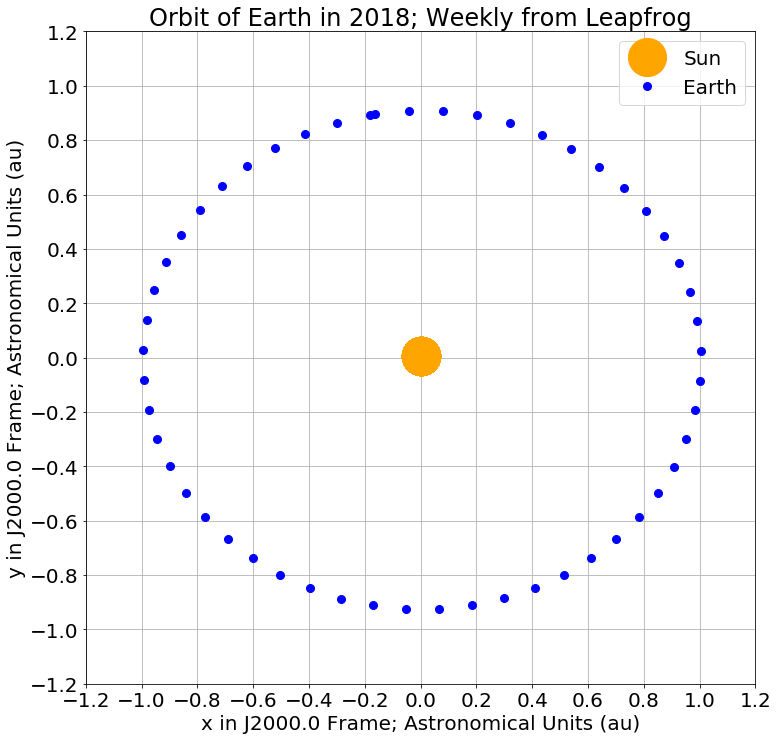
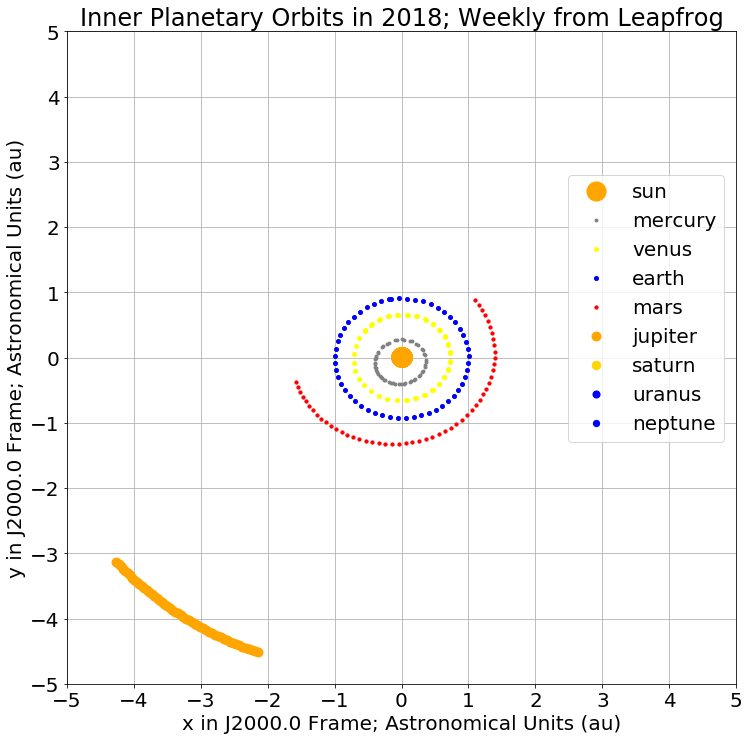
completed eight planets simulation

diff --git a/solar_system/eight_planets.py b/solar_system/eight_planets.py
@@ -35,10 +35,10 @@ mpl.rcParams.update({'font.size': 20})
 
 
 # *************************************************************************************************
-def configuration(bodies: List[str], t0: date, t1: Optional[date] = None,  
+def configuration(t0: date, t1: Optional[date] = None,  
                   steps_per_day: int = None) -> Tuple[np.ndarray, np.ndarray]:
     """
-    Get the positions and velocities of the sun and nine planets
+    Get the positions and velocities of the sun and eight planets
     Returned as a tuple q, v
     q: Nx3 array of positions (x, y, z) in the J2000.0 coordinate frame.
     """
@@ -63,6 +63,8 @@ def configuration(bodies: List[str], t0: date, t1: Optional[date] = None,
 
     # Number of time steps
     N: int = len(jd)
+    
+    # bodies is a list of the celestial bodies considered; should be in an enclosing scope
     # Number of bodies
     B: int = len(bodies)
     # Number of dimensions
@@ -94,7 +96,7 @@ def configuration(bodies: List[str], t0: date, t1: Optional[date] = None,
 def plot(q: np.ndarray, bodies: List[str], plot_colors: Dict[str, str],
          sim_name: str, fname: Optional[str] = None):
     """
-    Plot the planetary orbits.
+    Plot the planetary orbits.  Plot size limited to box of 10 AU around the sun.
     q is a Nx3B array.  t indexes time points.  3B columns are (x, y, z) for the bodies in order.
     """
     # Get N and number of dims
@@ -109,7 +111,7 @@ def plot(q: np.ndarray, bodies: List[str], plot_colors: Dict[str, str],
     
     # Set up chart title and scale
     fig, ax = plt.subplots(figsize=[12,12])
-    ax.set_title(f'Orbit of Earth in 2018; Weekly from {sim_name}')
+    ax.set_title(f'Inner Planetary Orbits in 2018; Weekly from {sim_name}')
     ax.set_xlabel('x in J2000.0 Frame; Astronomical Units (au)')
     ax.set_ylabel('y in J2000.0 Frame; Astronomical Units (au)')
     # Scale and tick size
@@ -151,6 +153,9 @@ def accel(q: np.ndarray):
     Compute the gravitational accelerations in the system
     q in row vector of 6 elements: sun (x, y, z), earth (x, y, z)
     """
+
+    # Infer number of dimensions from q
+    dims: int = len(q)
 
     # Initialize acceleration as dimsx1 array
     a: np.ndarray = np.zeros(dims)
@@ -202,29 +207,94 @@ def energy(q, v):
     for i in range(B):
         # Kinetic energy is 1/2 mv^2
         m = mass[i]
-        v = v[:, slices[i]]
-        T += 0.5 * m * np.sum(v * v, axis=1)
+        vi = v[:, slices[i]]
+        T += 0.5 * m * np.sum(vi * vi, axis=1)
     
     # Add up potential energy of each pair of bodies
     for i in range(B):
         for j in range(i+1, B):
             # Masses of these two bodies
-            m0 = mass[i]
-            m1 = mass[1]
+            mi = mass[i]
+            mj = mass[j]
         
             # Positions of body i and j
-            q0: np.ndarray = q[:, slices[0]]
-            q1: np.ndarray = q[:, slices[1]]
+            qi: np.ndarray = q[:, slices[i]]
+            qj: np.ndarray = q[:, slices[j]]
         
             # Potential energy is -G m1 m2  / r
-            dv_01 = q1 - q0
-            r_01 = np.linalg.norm(dv_01, axis=1)
-            U -= G * m0 * m1 * 1.0 / r_01
+            dv_ij = qj - qi
+            r_ij = np.linalg.norm(dv_ij, axis=1)
+            U -= G * mi * mj * 1.0 / r_ij
     
     # Total energy H = T + U
     H = T + U
     
     return H, T, U
+
+
+# *************************************************************************************************
+# q variables for the eight planets system
+x0, y0, z0 = fl.Vars('x0', 'y0', 'z0')
+x1, y1, z1 = fl.Vars('x1', 'y1', 'z1')
+x2, y2, z2 = fl.Vars('x2', 'y2', 'z2')
+x3, y3, z3 = fl.Vars('x3', 'y3', 'z3')
+x4, y4, z4 = fl.Vars('x4', 'y4', 'z4')
+x5, y5, z5 = fl.Vars('x5', 'y5', 'z5')
+x6, y6, z6 = fl.Vars('x6', 'y6', 'z6')
+x7, y7, z7 = fl.Vars('x7', 'y7', 'z7')
+x8, y8, z8 = fl.Vars('x8', 'y8', 'z8')
+
+# Arrange qs into a list
+q_vars = [x0, y0, z0,
+          x1, y1, z1,
+          x2, y2, z2,
+          x3, y3, z3,
+          x4, y4, z4,
+          x5, y5, z5,
+          x6, y6, z6,
+          x7, y7, z7,
+          x8, y8, z8]
+
+
+def make_force(q_vars, mass):
+    """Fluxion with the potential energy of the eight planets sytem"""
+    # Number of bodies
+    B: int = len(mass)
+    
+    # Build the potential energy fluxion by iterating over distinct pairs of bodies
+    U = fl.Const(0.0)
+    for i in range(B):
+        for j in range(i+1, B):
+            U +=  U_ij(q_vars, mass, i, j)
+    
+    # Varname arrays for both the coordinate system and U
+    vn_q = np.array([q.var_name for q in q_vars])
+    vn_fl = np.array(sorted(U.var_names))
+    # Permutation array for putting variables in q in the order expected by U (alphabetical)
+    q2fl = np.array([np.argmax((vn_q == v)) for v in vn_fl])
+    # Permutation array for putting results of U.diff() in order of q_vars
+    fl2q = np.array([np.argmax((vn_fl == v)) for v in vn_q])
+    # Return a force function from this potential
+    force_func = lambda q: -U.diff(q[q2fl]).squeeze()[fl2q]
+    return force_func
+
+
+def accel_fl(q: np.ndarray):
+    """Accelaration in the earth-sun system using Fluxion potential energy"""
+    # Infer number of dimensions from q
+    dims: int = len(q)
+    # Number of celestial bodies
+    B: int = dims // 3
+
+    # The force given the positions q of the bodies
+    f = force(q)
+
+    # The accelerations from this force
+    a = np.zeros(dims)
+    for i in range(B):
+        a[slices[i]] = f[slices[i]] / mass[i]
+    
+    return a
 
 
 # *************************************************************************************************
@@ -264,7 +334,7 @@ plot_colors = {
         }
 
 # Build a force function
-# force_ES = make_force_ES(q_vars, mass)
+force = make_force(q_vars, mass)
 
 # Set simulation time step to one day
 steps_per_day: int = 16
@@ -272,33 +342,33 @@ steps_per_day: int = 16
 # Extract position and velocity of earth-sun system in 2018
 t0 = date(2018,1,1)
 t1 = date(2019,1,1)
-q_jpl, v_jpl = configuration(bodies, t0, t1, steps_per_day)
+q_jpl, v_jpl = configuration(t0, t1, steps_per_day)
 
 # Simulate solar earth-sun system 
-# q_sim, v_sim = simulate_leapfrog(configuration_ES, accel_ES_fl, t0, t1, steps_per_day)
+q_sim, v_sim = simulate_leapfrog(configuration, accel_fl, t0, t1, steps_per_day)
 
 # Compute energy time series for earth-sun system with JPL and leapfrog simulations
 H_jpl, T_jpl, U_jpl = energy(q_jpl, v_jpl)
-# H_sim, T_sim, U_sim = energy_ES(q_sim, v_sim)
+H_sim, T_sim, U_sim = energy(q_sim, v_sim)
 
 # Plot the earth-sun orbits in 2018 at weekly intervals using the simulation
 plot_step: int = 7 * steps_per_day
 plot(q_jpl[::plot_step], bodies, plot_colors, 'JPL', 'figs/eight_planets_jpl.png')
-# plot_ES(q_sim[::plot_step], 'Leapfrog', 'figs/earth_sun_leapfrog.png')
+plot(q_sim[::plot_step], bodies, plot_colors, 'Leapfrog', 'figs/earth_sun_leapfrog.png')
 
 # Compute the MSE in AUs between the two simulations
-# mse = calc_mse(q_jpl, q_sim)
-# print(f'MSE between lapfrog simulation with {steps_per_day} steps per day and JPL:')
-# print(f'{mse:0.3e} astronomical units.')
+mse = calc_mse(q_jpl, q_sim)
+print(f'MSE between leapfrog simulation with {steps_per_day} steps per day and JPL:')
+print(f'{mse:0.3e} astronomical units.')
 
 # Compute energy change as % of original KE
 energy_chng_jpl = (H_jpl[-1] - H_jpl[0]) / T_jpl[0]
-# energy_chng_sim = (H_sim[-1] - H_sim[0]) / T_sim[0]
+energy_chng_sim = (H_sim[-1] - H_sim[0]) / T_sim[0]
 print(f'\nEnergy change as fraction of original KE during simulation with {steps_per_day} steps per day:')
-print(f'JPL:      {energy_chng_jpl*100:0.2e}.')
-# print(f'Leapfrog: {energy_chng_sim*100:0.2e}.')
+print(f'JPL:      {energy_chng_jpl:0.2e}.')
+print(f'Leapfrog: {energy_chng_sim:0.2e}.')
 
 # Plot time series of kinetic and potential energy
 N: int = len(q_jpl)
 plot_days = np.linspace(0.0, (t1-t0).days, N)
-plot_energy(plot_days, H_jpl, T_jpl, U_jpl)
+# plot_energy(plot_days, H_jpl, T_jpl, U_jpl)

diff --git a/solar_system/earth_sun.py b/solar_system/earth_sun.py
@@ -171,7 +171,7 @@ def accel_ES(q: np.ndarray):
 # *************************************************************************************************
 def energy_ES(q, v):
     """Compute the kinetic and potential energy of the earth sun system"""
-    # Body 0 is the sun, Body 1 is the Sun
+    # Body 0 is the sun, Body 1 is the earth
     m0 = mass[0]
     m1 = mass[1]
 
@@ -191,7 +191,7 @@ def energy_ES(q, v):
     # Potential energy is -G m1 m2  / r
     dv_01 = q1 - q0
     r_01 = np.linalg.norm(dv_01, axis=1)
-    U_01: np.ndarray = -G * m0 * m1 * 1.0 / r_01
+    U_01: np.ndarray = -G * m0 * m1 / r_01
     U: np.ndarray = U_01
     
     # Total energy H = T + U
@@ -204,9 +204,6 @@ def energy_ES(q, v):
 # q variables for the earth-sun system
 x0, y0, z0 = fl.Vars('x0', 'y0', 'z0')
 x1, y1, z1 = fl.Vars('x1', 'y1', 'z1')
-# v variables for the earth-sun system
-v0, v0, v0 = fl.Vars('v0', 'v0', 'v0')
-v1, v1, v1 = fl.Vars('v1', 'v1', 'v1')
 
 # Arrange qs into a list
 q_vars = [x0, y0, z0,
@@ -291,18 +288,18 @@ plot_ES(q_sim[::plot_step], 'Leapfrog', 'figs/earth_sun_leapfrog.png')
 
 # Compute the MSE in AUs between the two simulations
 mse = calc_mse(q_jpl, q_sim)
-print(f'MSE between lapfrog simulation with {steps_per_day} steps per day and JPL:')
+print(f'MSE between leapfrog simulation with {steps_per_day} steps per day and JPL:')
 print(f'{mse:0.3e} astronomical units.')
 
 # Compute energy change as % of original KE
 energy_chng_jpl = (H_jpl[-1] - H_jpl[0]) / T_jpl[0]
 energy_chng_sim = (H_sim[-1] - H_sim[0]) / T_sim[0]
 print(f'\nEnergy change as fraction of original KE during simulation with {steps_per_day} steps per day:')
-print(f'JPL:      {energy_chng_jpl*100:0.2e}.')
-print(f'Leapfrog: {energy_chng_sim*100:0.2e}.')
+print(f'JPL:      {energy_chng_jpl:0.2e}.')
+print(f'Leapfrog: {energy_chng_sim:0.2e}.')
 
 # Plot time series of kinetic and potential energy
 N: int = len(q_jpl)
 plot_days = np.linspace(0.0, (t1-t0).days, N)
-# plot_energy(plot_days, H_jpl, T_jpl, U_jpl)
+plot_energy(plot_days, H_jpl, T_jpl, U_jpl)
 

diff --git a/solar_system/solar_system.py b/solar_system/solar_system.py
@@ -138,7 +138,7 @@ def calc_mse(q1, q2):
 
 # *************************************************************************************************
 def simulate_leapfrog(config_func: Callable, accel_func: Callable, 
-                      t0: date, t1: date, steps_per_day: int, num_bodies: int = 2):
+                      t0: date, t1: date, steps_per_day: int):
     """
     Simulate the earth-sun system from t0 to t1 using Leapfrog Integration.
     INPUTS:
@@ -152,8 +152,12 @@ def simulate_leapfrog(config_func: Callable, accel_func: Callable,
     
     # Length of the simulation (number of steps)
     N: int = (t1 - t0).days * steps_per_day
-    # Number of dimensions in arrays; 3 spatial dimensions times the number of celestial bodies
-    dims = 3 * num_bodies
+
+    # Get the initial conditions
+    q0, v0 = config_func(t0)
+
+    # Infer the number of dimensions from the shape of q0
+    dims: int = q0.shape[1]
     
     # The time step in seconds
     dt = float(day2sec) / float(steps_per_day)
@@ -165,7 +169,6 @@ def simulate_leapfrog(config_func: Callable, accel_func: Callable,
     v: np.ndarray = np.zeros((N, dims))
     
     # Initialize the first row with the initial conditions from the JPL ephemerides
-    q0, v0 = config_func(t0)
     q[0, :] = q0
     v[0, :] = v0
     
@@ -255,7 +258,7 @@ def plot_energy(time, H, T, U):
     fig, ax = plt.subplots(figsize=[16,8])
     ax.set_title('System Energy vs. Time')
     ax.set_xlabel('Time in Days')
-    ax.set_ylabel('Energy (% Initial KE)')
+    ax.set_ylabel('Energy (Ratio Initial KE)')
     ax.plot(time, T, label='T', color='r')
     ax.plot(time, U, label='U', color='b')
     ax.plot(time, H, label='H', color='k')
